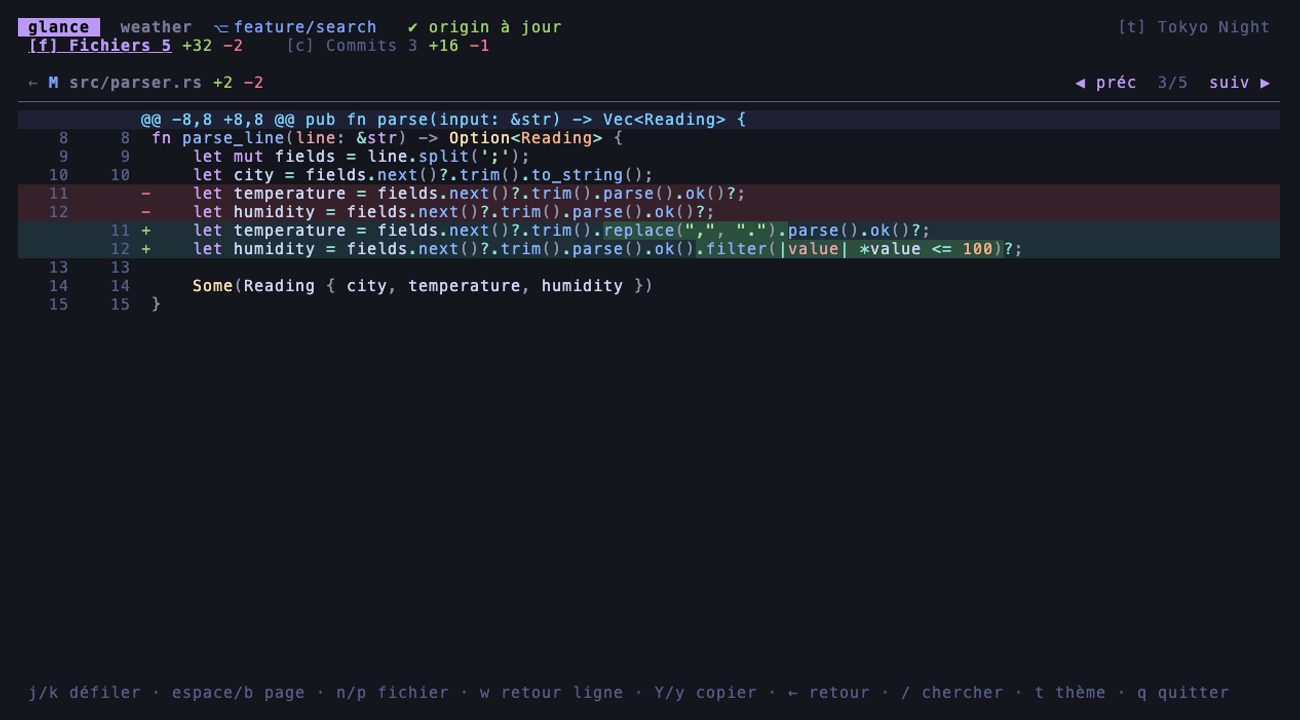
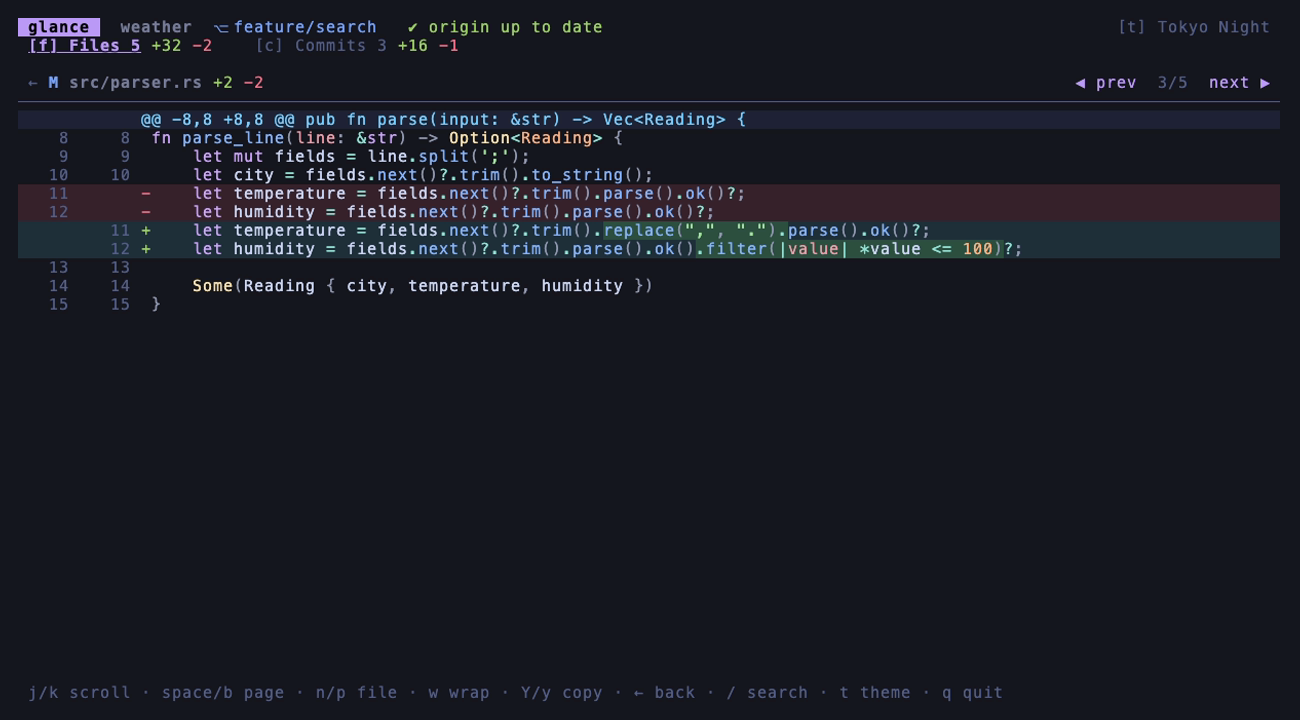
docs: document languages and retake screenshots in english

diff --git a/.claude/skills/add-language/SKILL.md b/.claude/skills/add-language/SKILL.md
@@ -1,0 +1,35 @@
+---
+name: add-language
+description: Translate glance into a new language, or add a new user-facing text to every language. Use when the user asks for a translation, a locale, or when a change shows new text on screen.
+---
+
+# Add a language, or a text
+
+Everything glance says is a field of `Strings` (`src/i18n/mod.rs`). A language is one `Strings` value in its own
+file; it is a struct literal, so a language missing a text does not compile.
+
+## A new language
+
+1. Copy `src/i18n/en.rs` to `src/i18n/<code>.rs` (ISO 639-1 code: `de`, `es`, `pt`…) and rename the constant
+   (`GERMAN`). Translate every field:
+   - keep the symbols (`⏎`, `▾`, `◀`, `▶`, `✔`, `✘`, `⟳`, `·`) and the `{…}` placeholders;
+   - plurals are functions: agree them the way the language does (French counts 0 as singular, English as plural);
+   - hints are short (the footer is one line): prefer a verb or a noun of one word.
+2. Declare it in `src/i18n/mod.rs`: `mod <code>;`, `pub use <code>::GERMAN;`, and add it to `LANGUAGES`
+   (bump the array length). The first entry stays the fallback (English).
+3. `detect` needs nothing: a locale starting with the code (`de_DE.UTF-8`) now picks it; `GLANCE_LANG=<code>` forces it.
+4. Mention it in README.md (Features, Configuration) and CHANGELOG.md.
+
+## A new text
+
+1. Add a field to `Strings` with a doc comment when the context is not obvious (a function `fn(usize) -> String` when it
+   holds a number or a name).
+2. Fill it in every file of `src/i18n/` — the compiler lists the ones missing it.
+3. Read it where it is shown: `context.strings` in `handle`, `paint.strings` in `render`, the `strings` given to `keymap()`,
+   `tab_title()`, `tools()`; `self.strings` in `App`.
+
+## Tests (required)
+
+- `cargo test --lib i18n` (unique codes, detection, plurals): add a plural/detection case for a new language.
+- `tests/language.rs`: `every_language_draws_every_screen` covers a new language automatically; for a new language,
+  add a test asserting a few of its texts on screen, like the English ones.

diff --git a/README.md b/README.md
@@ -8,8 +8,6 @@ Diffs, logs, stashes and blames become lists you can scroll, search and click th
 
 ![The branch browser: changed files grouped by directory, tests last, counted from origin/main](docs/screenshots/files.png)
 
-> The interface is currently in **French**. An English translation is welcome — see [Contributing](#contributing).
-
 ## A note from the author
 
 I am still learning Rust: I know the basics, and **most of this code was written with the help of AI**. I designed it, reviewed it, tested it, and use it every day. But an experienced Rustacean will surely find things to improve: idioms, performance, error handling, structure.
@@ -47,6 +45,7 @@ The screenshots are taken in a real terminal by [`scripts/screenshots.sh`](scrip
 - **Copy** a path, a hash or a whole diff with `y` / `Y`. It goes through the terminal (OSC 52), so it also works over SSH.
 - **Mouse support:** click rows, tabs and buttons, and scroll with the wheel.
 - **6 themes:** Tokyo Night, Catppuccin Mocha, Dracula, Nord, Gruvbox Dark and GitHub Light. Your choice is remembered.
+- **English and French:** the language follows your locale. Adding a language is a single file.
 
 Anything glance does not recognise (`git branch`, `git status`, `--stat`…) is handed to `less`, as git would have done.
 
@@ -112,7 +111,14 @@ The footer always shows the keys that work on the current screen.
 
 ## Configuration
 
-There is no configuration file to write. The theme you pick with `t` is saved to `$XDG_CONFIG_HOME/glance/theme`, or `~/.config/glance/theme` if `XDG_CONFIG_HOME` is not set.
+There is no configuration file to write.
+
+- **Theme:** the one you pick with `t` is saved to `$XDG_CONFIG_HOME/glance/theme`, or `~/.config/glance/theme` if `XDG_CONFIG_HOME` is not set.
+- **Language:** English or French, taken from your locale (`LC_ALL`, `LC_MESSAGES`, then `LANG`). English is used for any other locale. To choose one regardless of your locale:
+
+  ```sh
+  export GLANCE_LANG=fr   # or en
+  ```
 
 ## How it works
 

diff --git a/ARCHITECTURE.md b/ARCHITECTURE.md
@@ -14,8 +14,12 @@ input/ ── recognising what git piped (log, oneline, reflog, stash list, blam
 git/ ── running git (concrete `Git`, `Repo`, `Base`)
 highlight/ ── syntax colours (syntect + two-face grammars)
 theme/ ── colour themes, the saved choice
+i18n/ ── what glance says, one `Strings` per language, picked from the locale
 domain/ ── what is shown: files, commits, blame lines, diff rows, word emphasis (pure, no IO)
 ```
+
+The language is chosen once at startup (`i18n::detect`) and, like the theme, handed to screens as a value
+(`Context::strings`, `Paint::strings`, `View::keymap`): a text missing from a language does not compile.
 
 Dependencies point downwards: `domain` knows nothing else; `input` and `git` produce `domain`
 values; `app` composes everything; only `runtime` and `main` touch the terminal and the process.
@@ -48,6 +52,7 @@ browses, so a reload or a fetch never pulls an index from under it.
 | a key                           | a `Binding` in the screen's `keymap()` (with a `hint` to show it in the footer)      |
 | an input format git can pipe    | a file in `input/` with `detect`, one line in `DETECTORS` (order matters, it is tested) |
 | a theme                         | one entry in `theme::THEMES`                                                          |
+| a language                      | a file in `i18n/` with a `Strings` value, one entry in `i18n::LANGUAGES`              |
 | a git operation                 | a method on `Git`/`Repo`, parsing its output with `input::*`                           |
 
 ## Testing

diff --git a/CONTRIBUTING.md b/CONTRIBUTING.md
@@ -49,6 +49,7 @@ Read [`ARCHITECTURE.md`](ARCHITECTURE.md) first: it is short. Most features are 
 | a key or a clickable button | a `Binding` in the screen's `keymap()` (with a `hint` for the footer) |
 | a format git can pipe | a detector in `src/input/` plus one line in `DETECTORS` |
 | a theme | one entry in `THEMES` (`src/theme/catalog.rs`) |
+| a language | a file in `src/i18n/` plus one entry in `LANGUAGES` |
 | a git operation | a method on `Git` or `Repo` (`src/git/`) |
 
 Step-by-step guides for each of these are in [`.claude/skills/`](.claude/skills). They are written for Claude Code, but read just as well by humans.
@@ -63,7 +64,7 @@ Step-by-step guides for each of these are in [`.claude/skills/`](.claude/skills)
 - **No `match` on concrete screens in the app.** Add a `View` method with a default instead.
 - **Keys are declared once, with their footer hint.** No footer text is written by hand.
 - **Comments explain *why*, not *what*.** Names are spelled out; guard clauses are preferred over nesting.
-- **User-facing text** is French for now, until the interface is translated. Code, comments and commit messages are English.
+- **User-facing text** lives in `src/i18n/`, never inline: add the text to `Strings` and to every language. Code, comments and commit messages are English.
 
 ### Pull requests
 

diff --git a/CLAUDE.md b/CLAUDE.md
@@ -21,6 +21,7 @@ Each extension point has a project skill; use it instead of improvising:
 | a key or a mouse action         | `add-key`           |
 | a format git pipes to the pager | `add-input-format`  |
 | a theme                         | `add-theme`         |
+| a language, or a new text       | `add-language`      |
 | a git operation                 | `add-git-operation` |
 | verify, then install the binary | `ship`              |
 
@@ -46,7 +47,9 @@ Each extension point has a project skill; use it instead of improvising:
 - Comments say *why*, in the terse voice already used (`// A blame does not name its file, but git …`); never *what*.
 - Descriptive names, no abbreviations; guard clauses (`let … else`) over nesting; one space around operators,
   no vertical alignment; long single-line expressions are fine (rustfmt is not used).
-- User-facing text is French ("aucun résultat", "copié : …"); code, comments and commits are English.
+- User-facing text never sits inline: it is a field of `i18n::Strings`, filled in every language (`src/i18n/*.rs`), reached
+  through `context.strings` / `paint.strings` / the `strings` given to `keymap()`. Git errors are `GitError` values worded by
+  `Strings::git_error`. Code, comments and commits are English.
 
 ## Tests
 

diff --git a/.claude/skills/add-key/SKILL.md b/.claude/skills/add-key/SKILL.md
@@ -18,10 +18,10 @@ bindings in force, so a key and its help can never disagree.
    - the root layer `App::root_bindings` — tab switching and repository actions, only on a tab's first screen;
    - `keymap::global()` — what every screen does (/, y, t, q).
 3. **Declare the binding**: `Binding::new(command, &[char('x'), key(KeyCode::F(2)), ctrl('x')])`; add
-   `.hint("x", "libellé")` to show it in the footer. Bindings sharing a label are grouped ("n/p fichier"), so give
+   `.hint("x", strings.label)` (a `Strings` field) to show it in the footer. Bindings sharing a label are grouped ("n/p fichier"), so give
    paired keys the same label. Uppercase letters already imply Shift; Control is explicit (`ctrl`).
 4. **Handle the command**: in the screen's `View::handle`, or in `App::execute` if the app owns it (theme,
-   search, tabs, base, fetch). User-facing text in French.
+   search, tabs, base, fetch). User-facing text comes from `i18n::Strings` (see `add-language`).
 5. **A clickable span** for the same action: `row.push_target(span, Command::…)` in the screen's render or in
    `src/app/chrome.rs`. Never map a click to a fake key press. Hover styling is automatic.
 

diff --git a/.claude/skills/add-git-operation/SKILL.md b/.claude/skills/add-git-operation/SKILL.md
@@ -17,7 +17,7 @@ repository browser has (branch, main line, `Base`). Running git and parsing its 
 2. **Parse** with `input::*` when the output is a format the pager already reads (`parse_patch`, `parse_log`);
    otherwise write a pure parser next to it and unit-test it on fixtures.
 3. **Expose** a method returning `GitResult<domain type>` on `Git` (works in pager mode too, `Git::here()`) or on
-   `Repo` (browser only). Error messages shown to the user are French.
+   `Repo` (browser only). Errors the user should read in their language are `GitError` variants, worded in `Strings::git_error`; git's own stderr stays `GitError::Failed`.
 4. **Call it from the app**: through a `Session` method if the result is shared state (it owns the data), or
    directly in a screen's `handle` via `context.session.git()`; report failures with `context.fail(error)`.
 5. **Long or networked** operations (like `fetch`) run on a thread: follow `App::start_fetch` /

diff --git a/CHANGELOG.md b/CHANGELOG.md
@@ -5,6 +5,12 @@ The format follows [Keep a Changelog](https://keepachangelog.com/en/1.1.0/), and
 
 ## [Unreleased]
 
+### Added
+- **English interface**, alongside French. The language follows the locale (`LC_ALL`, `LC_MESSAGES`, `LANG`), and `GLANCE_LANG` overrides it.
+
+### Changed
+- Git errors are worded in the interface's language.
+
 ## [0.1.0] - 2026-10-18
 
 First public release.
